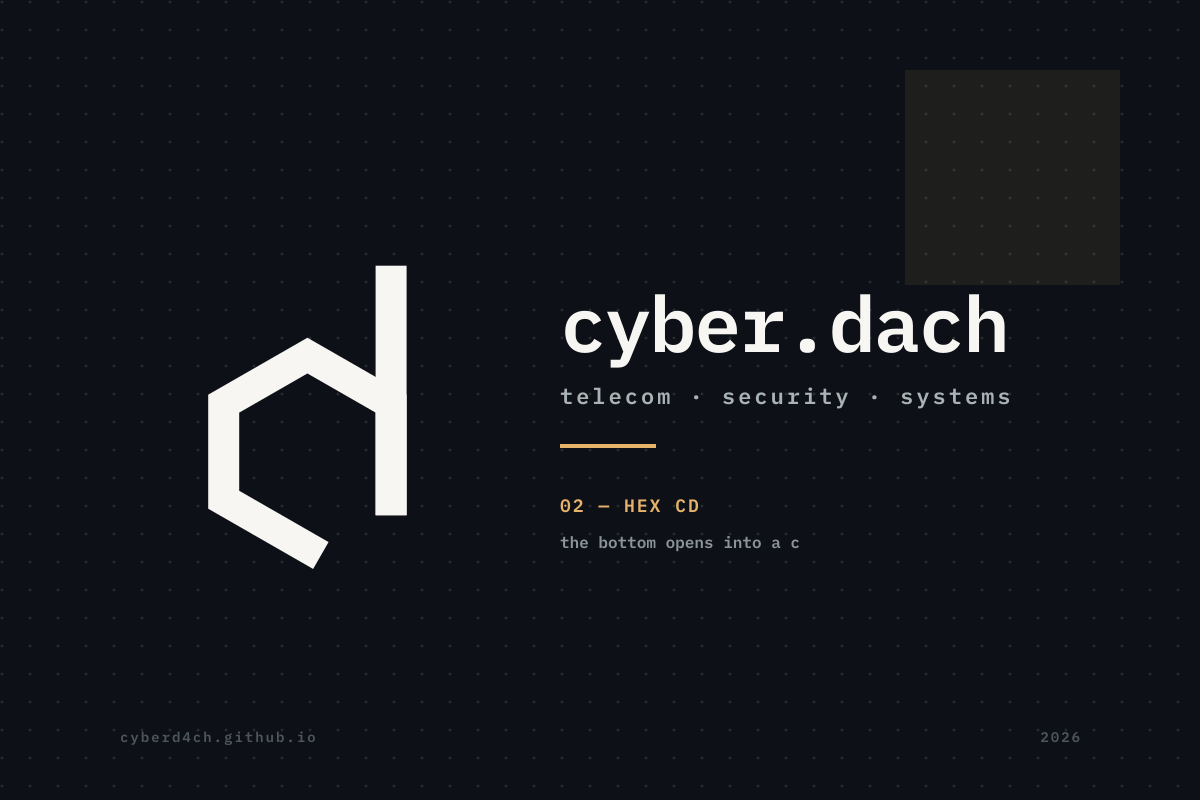
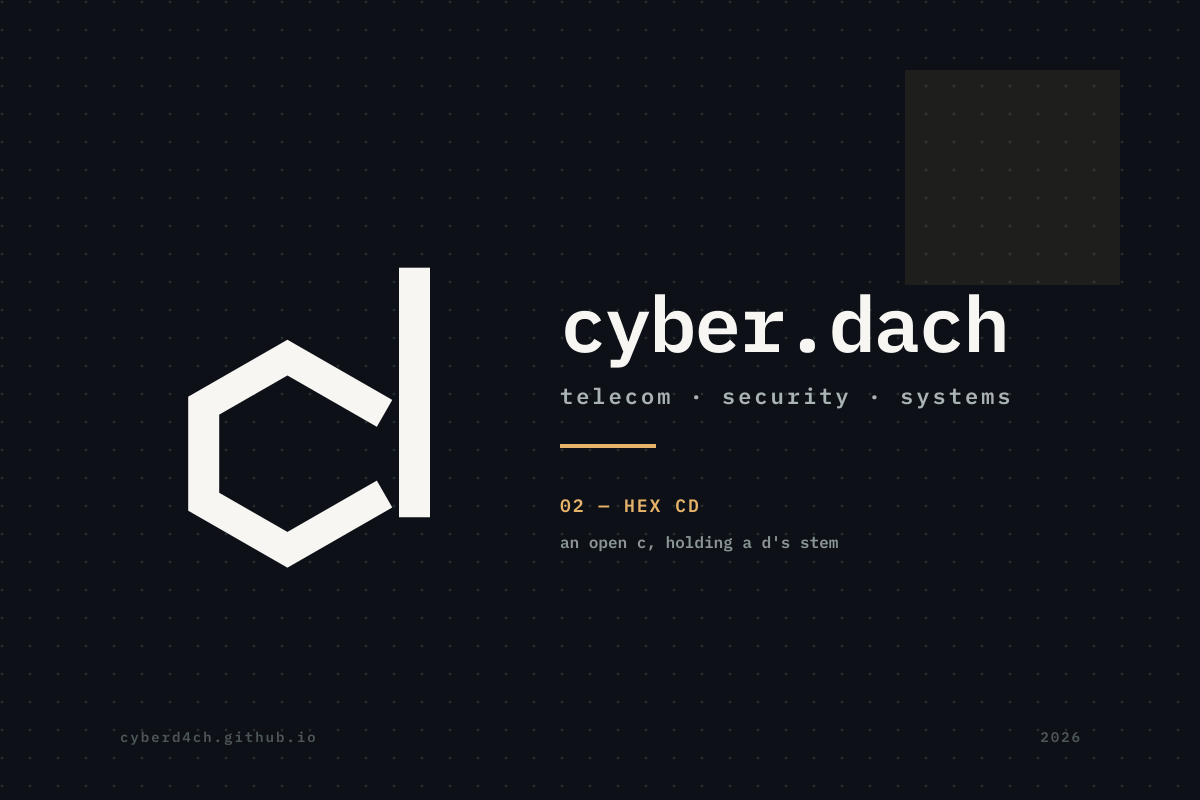
Open the cd bowl into a complete c.
The counter is now a full aperture with the ascender standing beside it, so the mark reads c and d at size and folds back into a d when small.

Generated with Codebuff

Changed region(s): [[0.1542, 0.3125, 0.37, 0.7188], [0.4625, 0.6562, 0.7092, 0.6875]]

diff --git a/app/brand/page.tsx b/app/brand/page.tsx
@@ -23,13 +23,13 @@ const candidates = [
     id: 'b',
     name: 'hex cd',
     type: 'letterform',
-    idea: 'the bowl opens where the stem meets it, so the bottom of the d reads as a c.',
+    idea: 'the bowl is a fully open c, with the d ascender standing beside it.',
     why: [
-      'the c and the d share one contour: the mouth of the c is the join to the stem.',
-      'reads as c and d together at poster size, as cyber and dach in one character.',
-      'at avatar size it falls back to a clean d, which is the safer failure mode.',
+      'the c is complete rather than suggested: one clean aperture, no broken corner.',
+      'at reading size it resolves as c + d, which is cyber and dach in one character.',
+      'below about 24 px the gap closes and it reads as a plain d, which is the safer failure.',
     ],
-    risk: 'the open mouth is subtle below about 24 px; there it reads as a plain d rather than both letters.',
+    risk: 'the stem sits deliberately clear of the bowl; close that gap and the c disappears into a normal d.',
     art: '/brand/art-b-cd.png',
     svg: '/brand/candidate-b-cd.svg',
     mark: '/brand/candidate-b-cd.svg',
